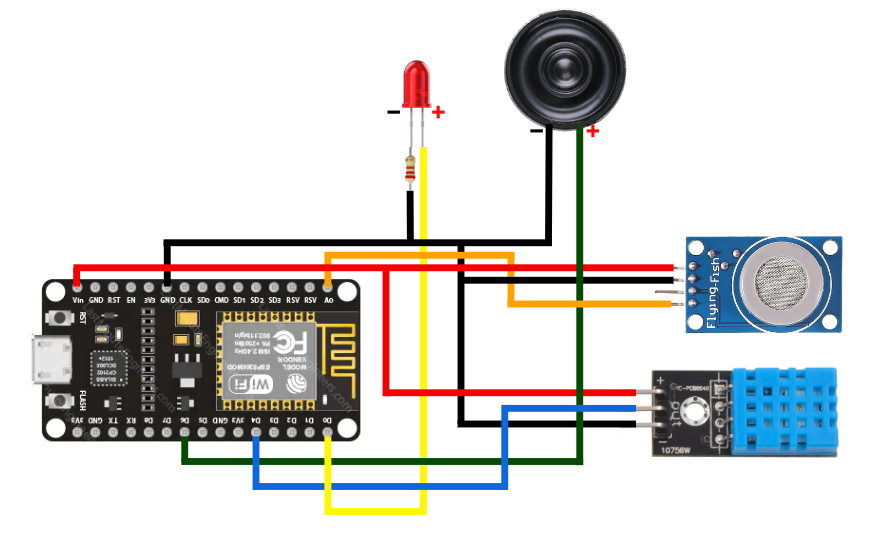
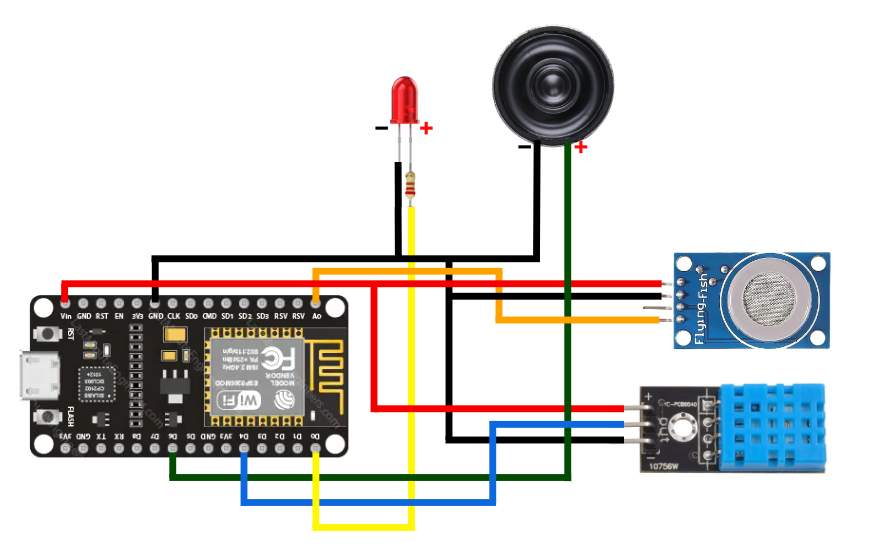
Update circuit map

Changed region(s): [[0.0, 0.0, 0.9697, 0.9945]]

diff --git a/README.md b/README.md
@@ -7,6 +7,14 @@ Q2D Home sensor system is a project that allows users to monitor temperature, hu
 + Send warning emails to users upon detecting unsual values from sensors.
 + Features LED and speaker to alert when there's a fire.
 
+## 🔌 Sensor device
+![Fire sensor](/images/circuit_map.png) 
+### Device components:
++ ESP8266
++ DHT11
++ MQ-7
++ LED & Small speaker (for fire alarm)
+
 ## 📸 Images
 ### Fire sensor box
 ![Fire sensor](/images/system_1.jpg) 
